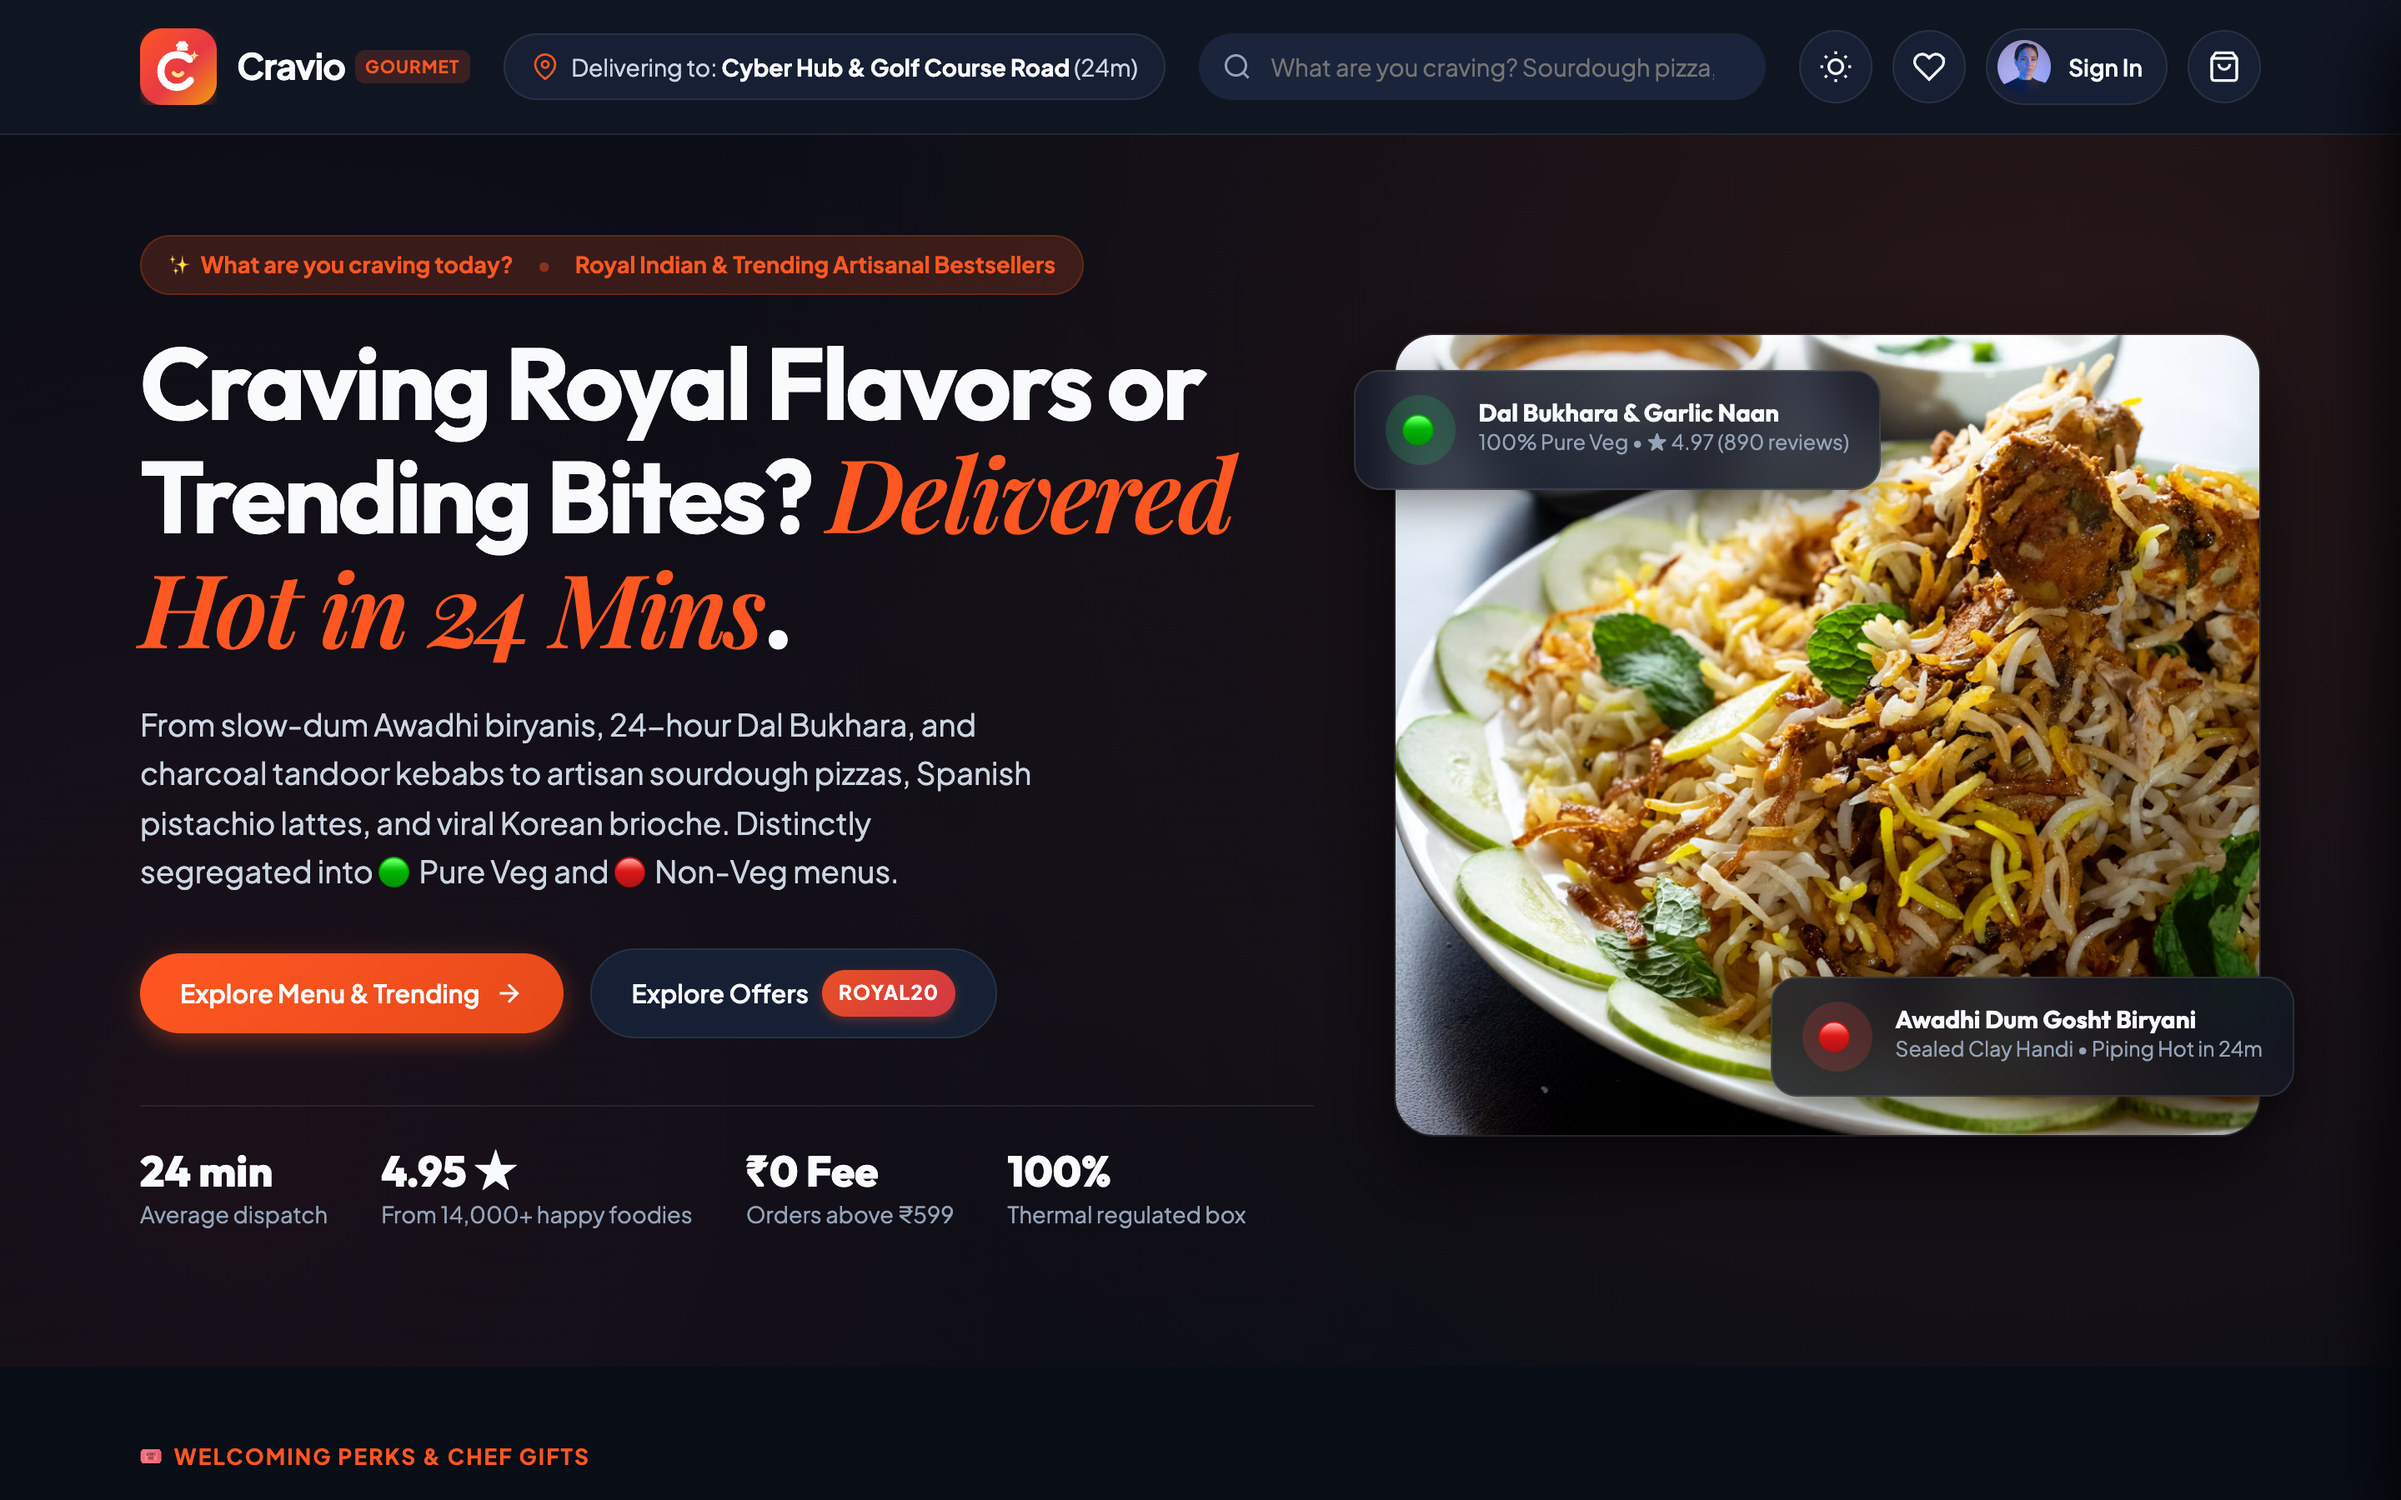
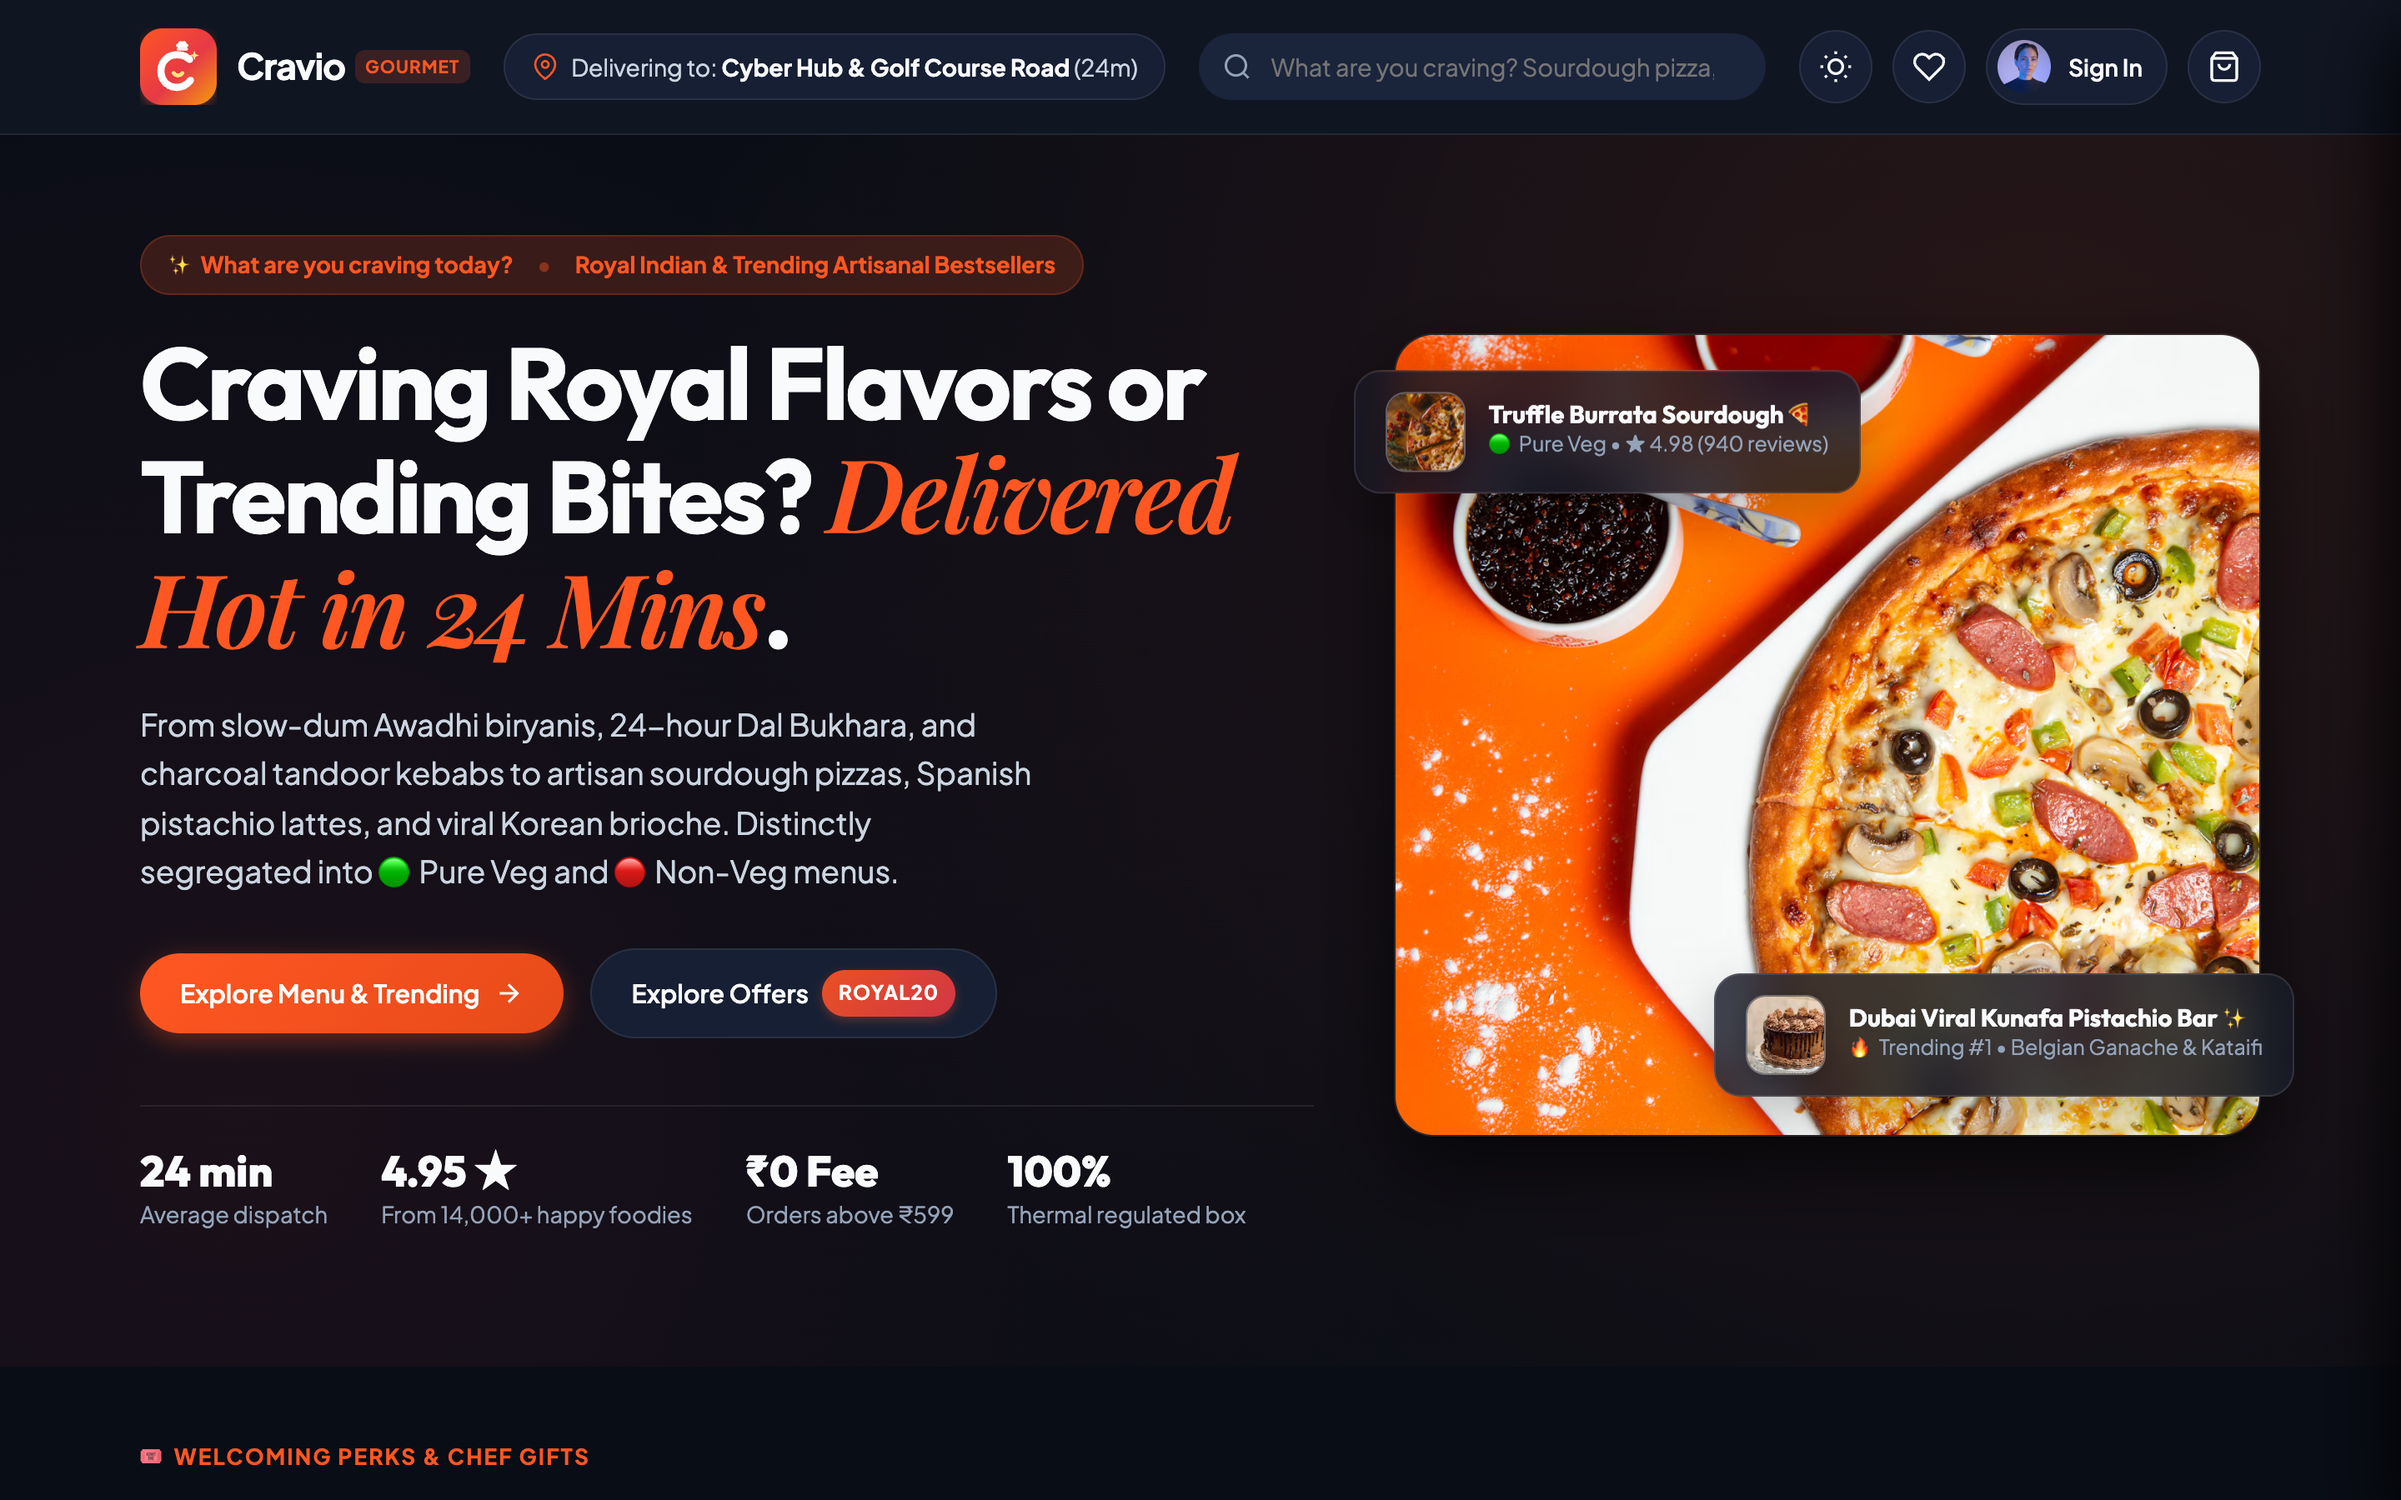
Replace pinned biryani with aesthetic Truffle Burrata Pizza and Dubai Viral Kunafa Pistachio Bar pins

Changed region(s): [[0.5625, 0.2178, 0.9688, 0.7778]]

diff --git a/index.html b/index.html
@@ -190,27 +190,35 @@
       <div class="hero-visual-card">
         <div class="hero-main-photo-wrap">
           <img 
-            src="https://images.unsplash.com/photo-1589302168068-964664d93dc0?w=1000&auto=format&fit=crop&q=80" 
-            alt="Royal Awadhi Dum Biryani in Clay Handi" 
+            src="https://images.unsplash.com/photo-1604382355076-af4b0eb60143?w=1200&auto=format&fit=crop&q=80" 
+            alt="Artisanal Wood-Fired Sourdough Pizza with Fresh Burrata and Basil" 
             class="hero-main-photo" 
           />
         </div>
 
-        <!-- Floating Card 1: Top Left -->
-        <div class="floating-gourmet-card card-top-left">
-          <div class="floating-icon-wrap" style="background: rgba(34, 197, 94, 0.2);">🟢</div>
+        <!-- Floating Card 1: Top Left - Pure Veg Artisan Pizza Pin -->
+        <div class="floating-gourmet-card card-top-left" onclick="App.openFoodModal('piz-veg-01')" title="Tap to view Truffle Burrata Pizza">
+          <img 
+            src="https://images.unsplash.com/photo-1513104890138-7c749659a591?w=160&auto=format&fit=crop&q=80" 
+            alt="Truffle Burrata Sourdough Pizza" 
+            class="floating-thumb" 
+          />
           <div class="floating-text">
-            <h5>Dal Bukhara &amp; Garlic Naan</h5>
-            <p>100% Pure Veg • ★ 4.97 (890 reviews)</p>
+            <h5>Truffle Burrata Sourdough 🍕</h5>
+            <p>🟢 Pure Veg • ★ 4.98 (940 reviews)</p>
           </div>
         </div>
 
-        <!-- Floating Card 2: Bottom Right -->
-        <div class="floating-gourmet-card card-bottom-right">
-          <div class="floating-icon-wrap" style="background: rgba(239, 68, 68, 0.2);">🔴</div>
+        <!-- Floating Card 2: Bottom Right - Replaced Biryani with Viral Aesthetic Pin -->
+        <div class="floating-gourmet-card card-bottom-right" onclick="App.openFoodModal('trn-veg-02')" title="Tap to view Dubai Viral Kunafa Chocolate">
+          <img 
+            src="https://images.unsplash.com/photo-1578985545062-69928b1d9587?w=160&auto=format&fit=crop&q=80" 
+            alt="Dubai Viral Kunafa Pistachio Chocolate" 
+            class="floating-thumb" 
+          />
           <div class="floating-text">
-            <h5>Awadhi Dum Gosht Biryani</h5>
-            <p>Sealed Clay Handi • Piping Hot in 24m</p>
+            <h5>Dubai Viral Kunafa Pistachio Bar ✨</h5>
+            <p>🔥 Trending #1 • Belgian Ganache &amp; Kataifi</p>
           </div>
         </div>
       </div>

diff --git a/css/components.css b/css/components.css
@@ -337,14 +337,32 @@
   backdrop-filter: var(--glass-blur);
   -webkit-backdrop-filter: var(--glass-blur);
   border: 1px solid var(--glass-border);
-  padding: 14px 18px;
+  padding: 12px 18px;
   border-radius: var(--radius-md);
-  box-shadow: var(--shadow-md);
+  box-shadow: 0 12px 32px rgba(0, 0, 0, 0.22);
   display: flex;
   align-items: center;
   gap: 14px;
   z-index: 10;
+  cursor: pointer;
+  transition: transform 0.3s ease, box-shadow 0.3s ease, border-color 0.3s ease;
   animation: floatCard 4s ease-in-out infinite;
+}
+
+.floating-gourmet-card:hover {
+  transform: translateY(-6px) scale(1.03);
+  box-shadow: 0 18px 40px rgba(0, 0, 0, 0.32);
+  border-color: var(--accent-primary);
+}
+
+.floating-thumb {
+  width: 48px;
+  height: 48px;
+  border-radius: 12px;
+  object-fit: cover;
+  flex-shrink: 0;
+  box-shadow: 0 4px 12px rgba(0, 0, 0, 0.2);
+  border: 1.5px solid rgba(255, 255, 255, 0.3);
 }
 
 .card-top-left {

diff --git a/css/responsive.css b/css/responsive.css
@@ -112,6 +112,17 @@
   .hero-visual-card {
     max-width: 580px;
     margin: 0 auto;
+    overflow: visible;
+  }
+
+  .card-top-left {
+    left: 8px;
+    top: 12px;
+  }
+
+  .card-bottom-right {
+    right: 8px;
+    bottom: 12px;
   }
 
   .hero-main-photo {
